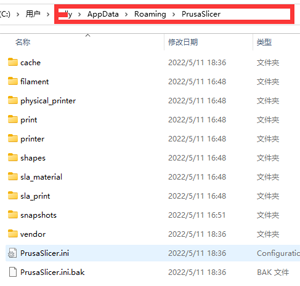
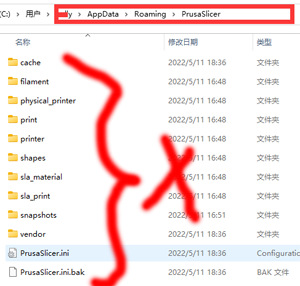
updata readme file

Changed region(s): [[0.18, 0.1678, 0.48, 1.0], [0.45, 0.4476, 0.69, 0.7832]]

diff --git a/PrusaSlicer/readme.md b/PrusaSlicer/readme.md
@@ -16,28 +16,24 @@
 ### :exclamation:Please pay attention to distinguish the hot end type what you used is M4 (mix color hot end) hot end or E4 (Non-mix color) hot end. If your printer has a M4 hot end, but you used a gcode file sliced by M4 hot end, it may cause block the hot end, vice versa. :exclamation:
 --------
 ## :book: Contents
-- [**Download and install PrusaSlicer**](#1-download-prusaslicer-software-and-profiles)
+- [**Download and install PrusaSlicer**](#1-download-and-install-prusaslicer)
 - [**Setup printer**](#2-setup-printer)
 - [**Set print preset**](#3-set-print-preset)
 - [**Slicing one Color**](#4-slicing-one-color)
 - [**Slicing muti-color for M4 hotend**](#5-slicing-muti-color-for-m4-hotend)
 - [**Slicing muti-color for E4 hotend**](#6-slicing-muti-color-for-e4-hotend)
 --------
-## 1. Download PrusaSlicer software and profiles
-#### :point_right: [PrusaSlicer introduction](https://help.prusa3d.com/article/general-info_1910)
-
-#### For Windows
-- :arrow_down: [**Download PrusaSlicer 2.4.2 with ZONESTAR 3D Printer Profiles**](https://github.com/ZONESTAR3D/Slicing-Guide/releases)     
-Download it and unzip it to your PC or laptop, and then find and run the "PrusaSlicer.exe".    
-
-#### For Macos or linux
-- :arrow_down: [**Download PrusaSlicer software**](https://github.com/prusa3d/PrusaSlicer/releases)
-- :arrow_down: [**Download profiles**](https://downgit.github.io/#/home?url=https:%2F%2Fgithub.com%2FZONESTAR3D%2FSlicing-Guide%2Ftree%2Fmaster%2FPrusaSlicer%2FProfiles)
-- Copy Profiles to "resource/profiles" directory of the installation directory of the PrusaSlicer software.
-
-#### If you have installed PrusaSlicer before, you may still need to delete previous configurations settings before apply this Profiles
-##### You can find the directory by open the PrusaSlicer menu: **help>>Show Configuration Floder**, for Windows OS, it is usually stored in "C:/Users/{your PC name}/AppData/Roaming/PrusaSlicer", as below shown:
-##### Delete all of the files in this directory, and then open PrusaSlicer software again.
+## 1. Download and install PrusaSlicer
+### For Windows
+- **:arrow_down: [Download PrusaSlicer 2.4.2 with ZONESTAR 3D Printer Profiles](https://github.com/ZONESTAR3D/Slicing-Guide/releases), and unzip it to your PC or laptop, and then find and run the "PrusaSlicer.exe".**             
+- **Or :arrow_down: [Download the newest version PrusaSlicer from Prusa Github Page](https://github.com/prusa3d/PrusaSlicer/releases), and then :point_right:[import ZONESTAR 3d Printer Profiles](#import-zonestar-3d-printer-profiles).**       
+### For Macos or linux
+**:arrow_down: [Download the newest version PrusaSlicer from Prusa Github Page](https://github.com/prusa3d/PrusaSlicer/releases), and then :point_right:[import ZONESTAR 3d Printer Profiles](#import-zonestar-3d-printer-profiles).**   
+#### Import ZONESTAR 3d Printer Profiles
+- :arrow_down: [**Download ZONESTAR 3d Printer profiles**](https://downgit.github.io/#/home?url=https:%2F%2Fgithub.com%2FZONESTAR3D%2FSlicing-Guide%2Ftree%2Fmaster%2FPrusaSlicer%2FProfiles) and unzip it to your PC.
+- Copy Profiles to "resource/profiles" directory of the installation directory of the PrusaSlicer software.    
+:warning:You may need to delete previous configurations settings, otherwise the newer profiles can't be applied proper:warning:      
+You can find the directory where store the previous configurations: ***help>>Show Configuration Floder***, for Windows OS, it is usually stored in ***"C:/Users/{your PC name}/AppData/Roaming/PrusaSlicer"***. Delete all of these files in this directory, and then open PrusaSlicer software again.    
 ![0](./pic/0.png)![1](./pic/1.png)
 
 ## 2. Setup printer

diff --git a/PrusaSlicer/PrusaSlicerGuide_M4.md b/PrusaSlicer/PrusaSlicerGuide_M4.md
@@ -22,8 +22,8 @@ No matter which version of the M4 hot end, you can apply the same slice settings
 ### Step 6: Set the print settings: layer height, print speed, support, infill, etc.
 ![](pic/slicingM4-6.png)  
 You need to set these parameters according to the shape of the model and your requirements for print quality. Even for some models, printing cannot be completed normally without support. For details please refer to:
-- :point_right: [**PrusaSlicer introduction**](https://help.prusa3d.com/article/general-info_1910)    
-- :point_right: [**Slic3r User Manuual**](https://manual.slic3r.org/)   
+- :point_right: [**PrusaSlicer introduction**](https://help.prusa3d.com/article/general-info_1910)      
+- :point_right: [**Slic3r User Manuual**](https://manual.slic3r.org/)      
 :warning: Please note that the "Retraction when tool is disabled" should be set to 0.    
 ![](pic/slicingM4-7.jpg)    
 ### Step 7: Set parameters for "wipe tower"

diff --git a/PrusaSlicer/PrusaSlicerGuide_E4.md b/PrusaSlicer/PrusaSlicerGuide_E4.md
@@ -23,6 +23,8 @@
 You need to set these parameters according to the shape of the model and your requirements for print quality. Even for some models, printing cannot be completed normally without support. For details please refer to:
 - :point_right: [**PrusaSlicer introduction**](https://help.prusa3d.com/article/general-info_1910)
 - :point_right: [**Slic3r User Manuual**](https://manual.slic3r.org/)
+:warning: Please note that the "Retraction when tool is disabled" should be set to 0.    
+![](pic/slicingM4-7.jpg)  
 ### Step 7: Set parameters for "wipe tower"
 You may notice that a square square will appear in the sliced figure, which is called "Wipe tower" in PrusaSlicer. Because for the multi-color printer, while switching extruders, there are still the previous color filaments inside the hotend, it need to be clean before printing another color.   
 ![](pic/slicingM4-71.png)    
